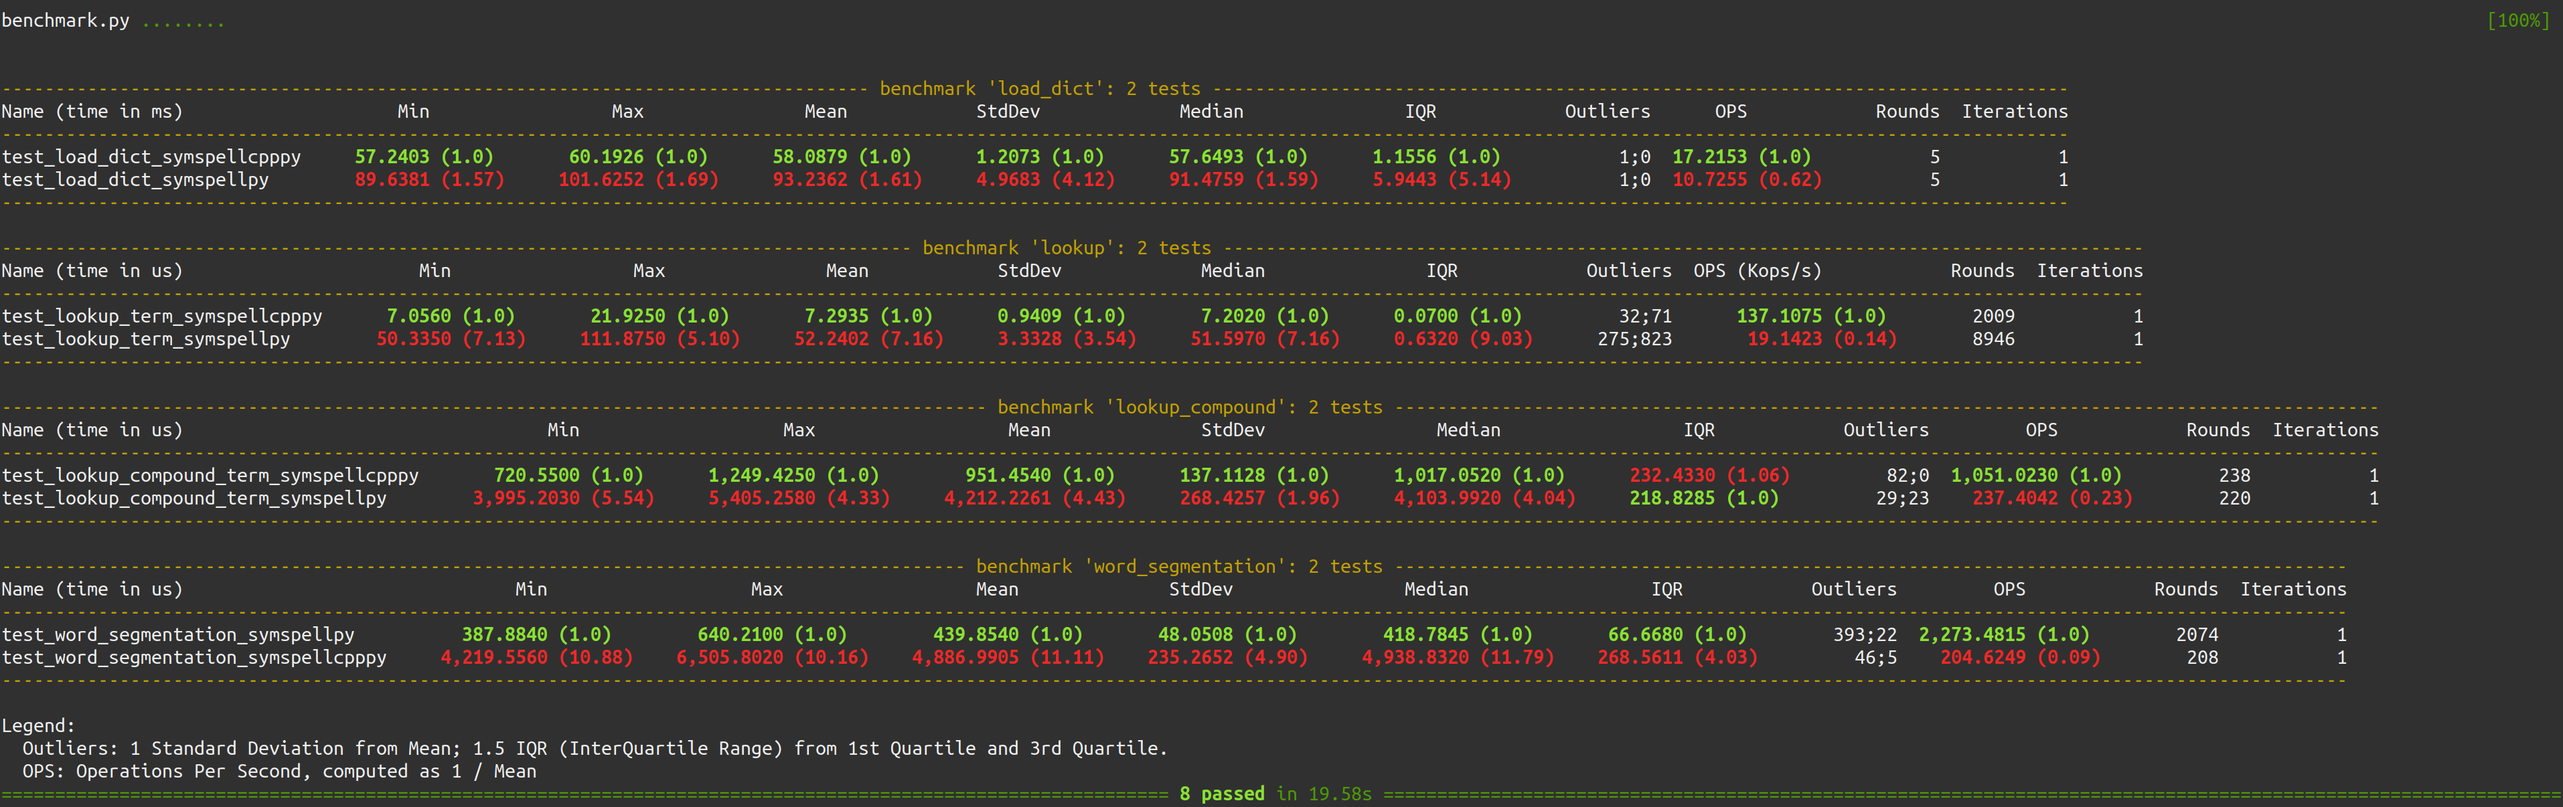
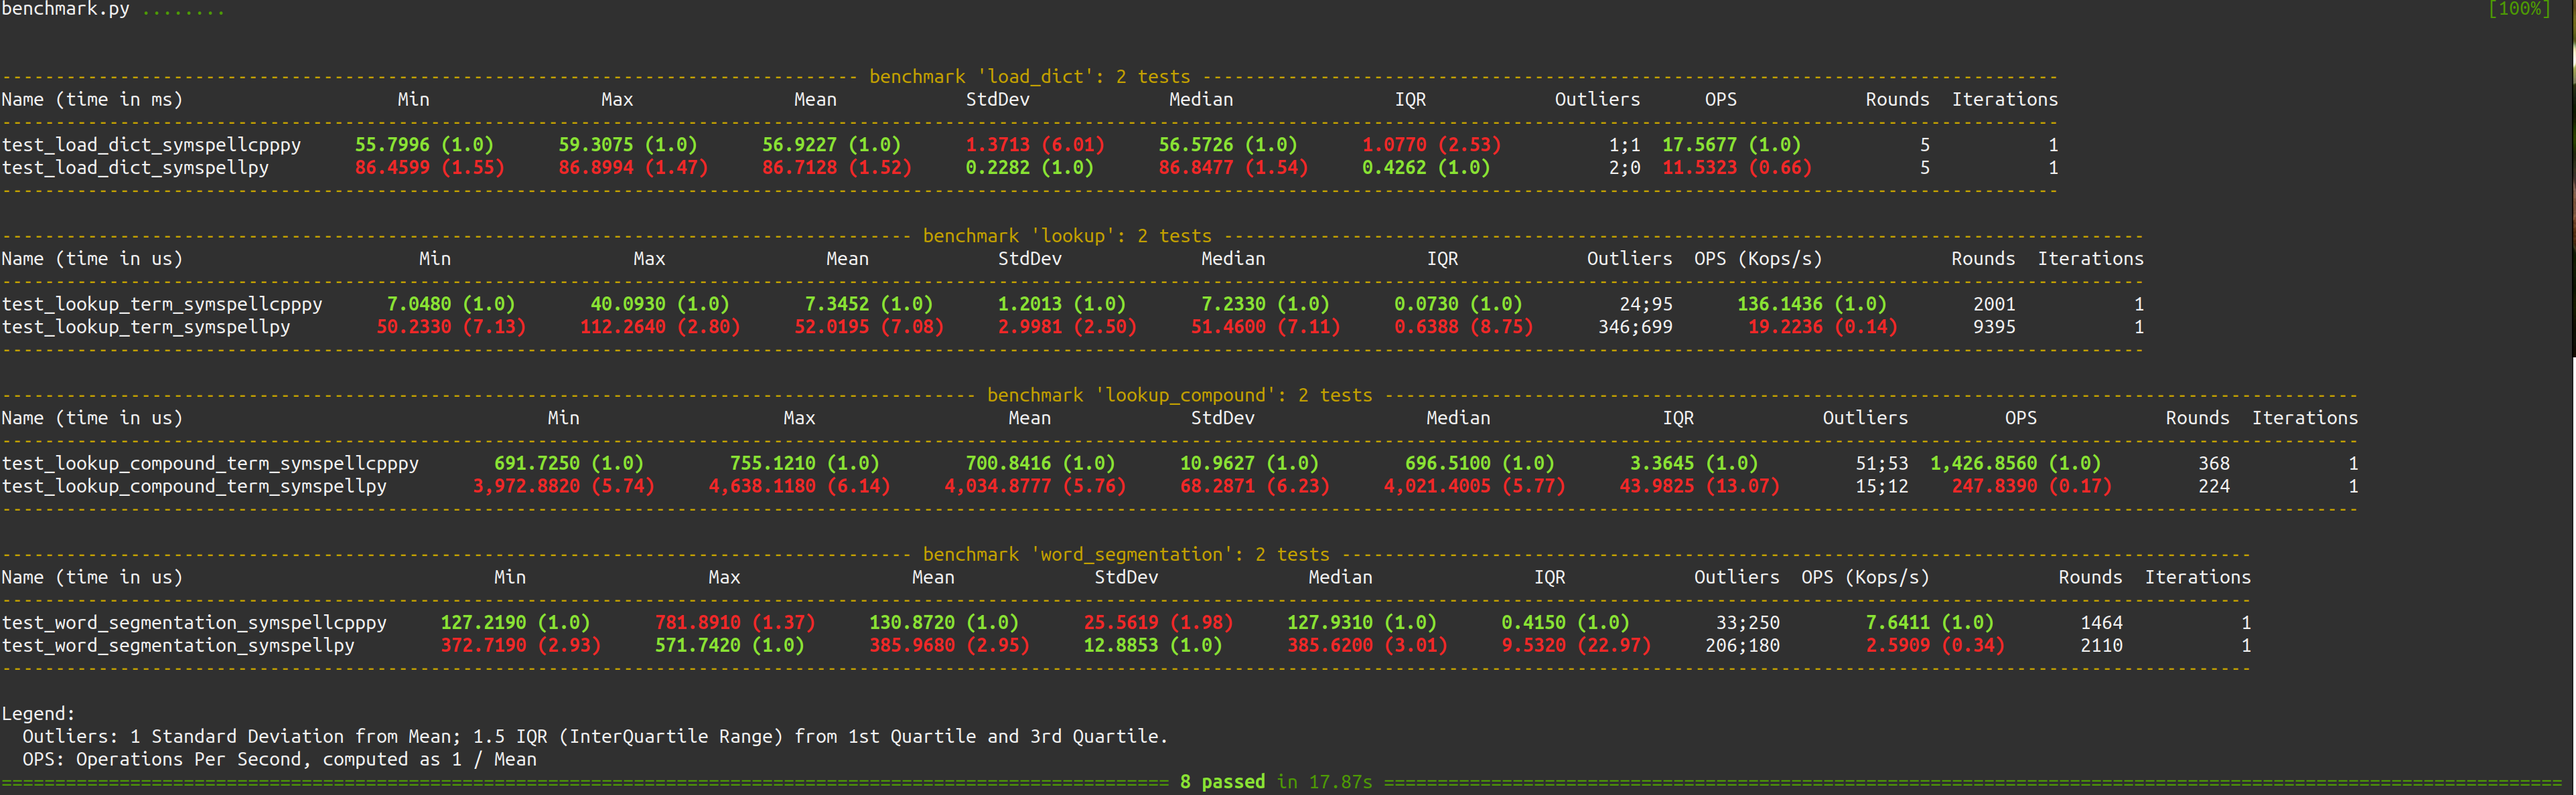
Speedup word segmentation.

diff --git a/setup.py b/setup.py
@@ -80,7 +80,7 @@ class CMakeBuild(build_ext):
 
 setup(
     name='SymSpellCppPy',
-    version='0.0.4',
+    version='0.0.5',
     author='Arjun Variar & Mohit Tare',
     author_email='accio.arjun@gmail.com',
     description='A Fast SymSpell port for python written in C++ using pybind11.',

diff --git a/library.cpp b/library.cpp
@@ -678,7 +678,7 @@ namespace symspellcpppy {
                 }
 
                 topEd += part.size();
-                xregex r(XL("(\\s)+"));
+                xregex r(XL(" "));
                 part = regex_replace(part, r, XL(""));
                 topEd -= part.size();
 
